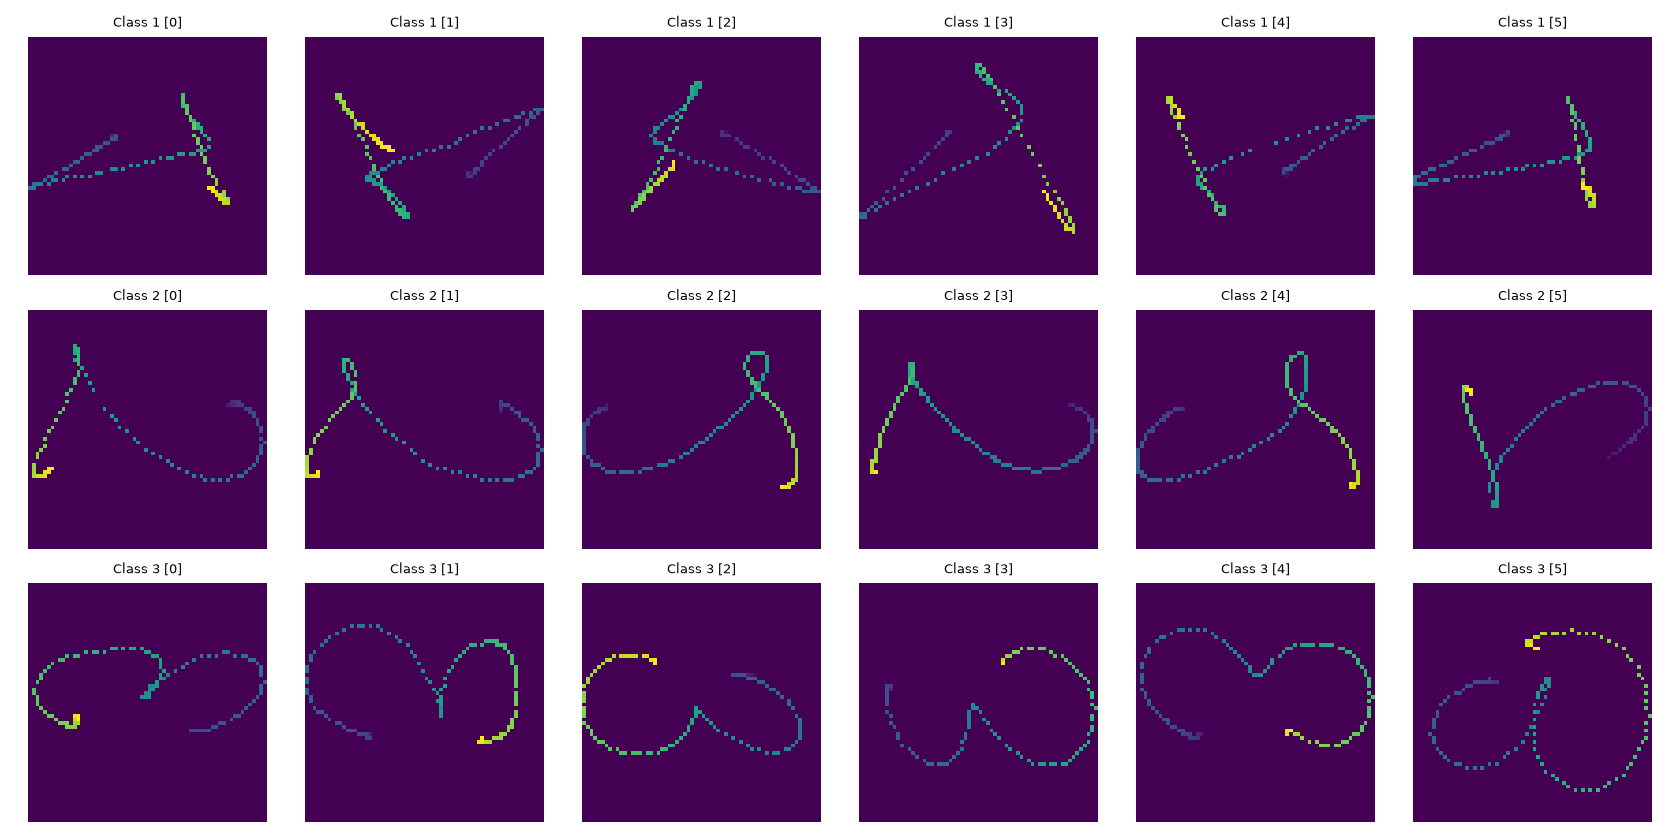
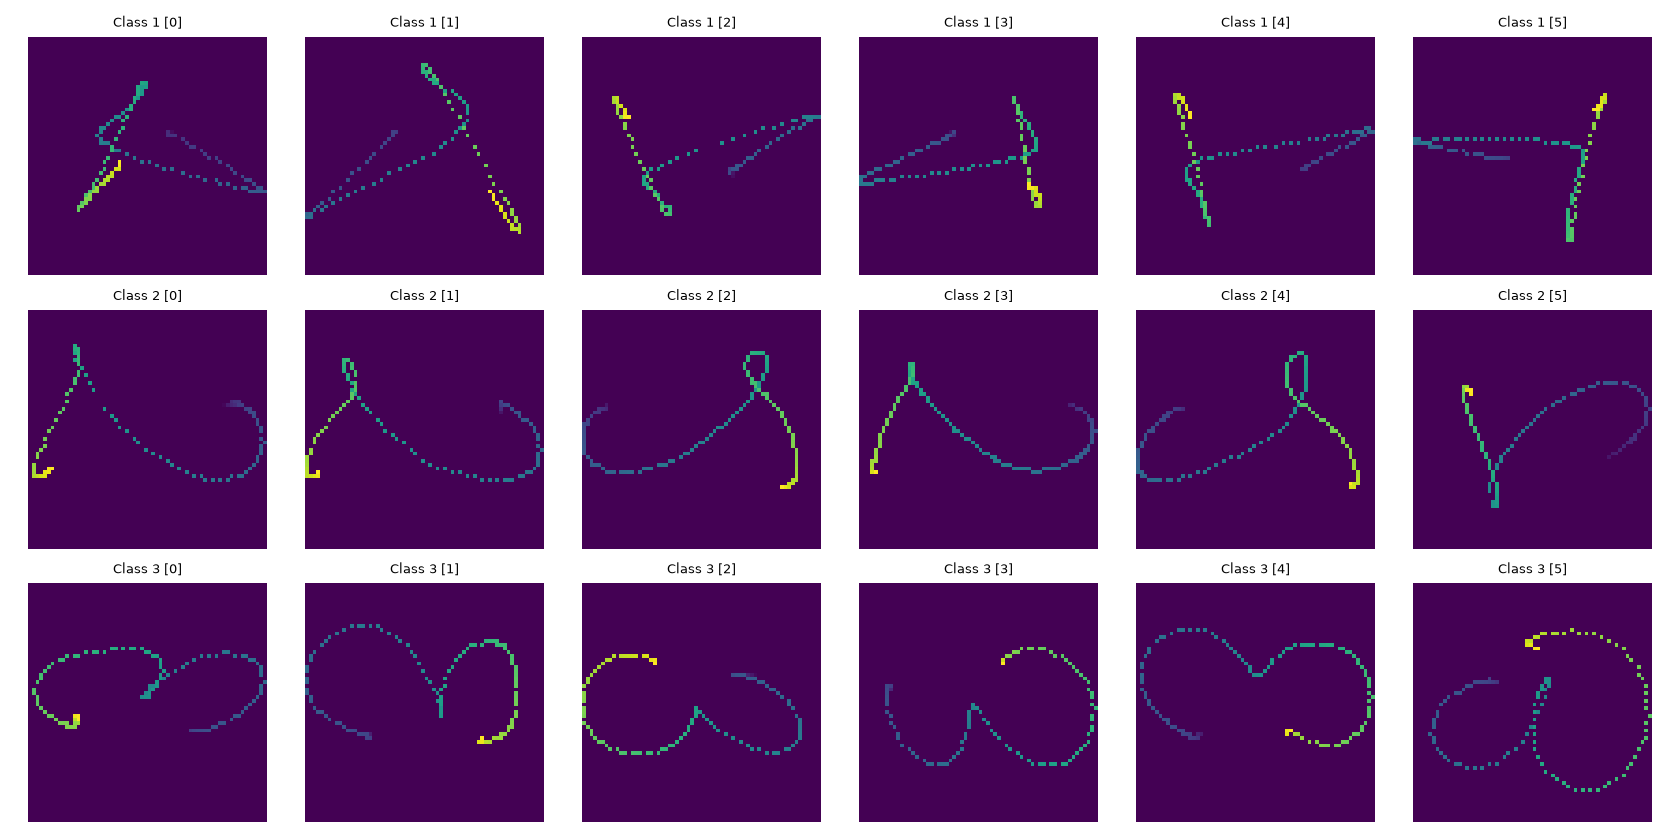
Add gesture classification toggle to pygame viewer
Add ability to toggle gesture classification on/off using the G key. Updates the UI to display classification status and refactors the gesture display section.

diff --git a/src/visualization/pygame_viewer.py b/src/visualization/pygame_viewer.py
@@ -14,6 +14,7 @@ Renders three projections side by side:
     • Fonts are instantiated once at startup.
 
 Runtime gesture classification keybindings:
+    G       toggle classification on / off
     W / S   window size  ± 15 frames
     E / Q   step size    ±  5 frames
     Z / X   debounce     ±  1 vote
@@ -118,6 +119,7 @@ class PygameViewer:
         self._recorder = TrackerRecorder()
 
         # Gesture classification
+        self._classification_enabled: bool = True
         self._classifier: RealtimeGestureClassifier | None = None
         self._current_gesture: int | None = None
         self._gesture_history: deque[tuple[str, int]] = deque(maxlen=10)
@@ -158,7 +160,7 @@ class PygameViewer:
         self._recorder.sample(self._render_states)
 
         # Feed the first actively-tracked source into the gesture classifier
-        if self._classifier is not None:
+        if self._classifier is not None and self._classification_enabled:
             for rs in self._render_states:
                 if rs.data.get("tracking"):
                     confirmed = self._classifier.add_sample(
@@ -314,6 +316,11 @@ class PygameViewer:
                     self._recorder.toggle_recording(self._render_states)
 
                 # ── classifier config ──────────────────────────────────────
+                elif event.key == pygame.K_g and self._classifier:
+                    self._classification_enabled = not self._classification_enabled
+                    state = "enabled" if self._classification_enabled else "disabled"
+                    print(f"Classification {state}")
+
                 elif event.key == pygame.K_w and self._classifier:
                     self._classifier.resize_window(self._classifier.window_size + 15)
                     print(f"Window size → {self._classifier.window_size}")
@@ -451,7 +458,6 @@ class PygameViewer:
             self._draw_card_background(cfg_x, y, cfg_w, cfg_h)
             if self._classifier is None:
                 self._blit_row("Classifier", "No model", cfg_x + 14, y + 12, cfg_w - 28, val_color=Theme.TEXT_DIM)
-                self._blit_row("Status", "Disabled", cfg_x + 14, y + 40, cfg_w - 28, val_color=Theme.TEXT_DIM)
             else:
                 self._blit_row(
                     "Window  [W/S]",
@@ -473,18 +479,21 @@ class PygameViewer:
             self._draw_card_background(gest_x, y, gest_w, gest_h)
             if self._classifier is None:
                 self._blit_row("Gesture", "No model", gest_x + 14, y + 12, gest_w - 28, val_color=Theme.TEXT_DIM)
-                self._blit_row("Status", "Disabled", gest_x + 14, y + 40, gest_w - 28, val_color=Theme.TEXT_DIM)
             else:
+                cl_txt   = "On  [G]" if self._classification_enabled else "Off [G]"
+                cl_color = Theme.GREEN_CONN if self._classification_enabled else (230, 40, 40)
+                self._blit_row("Classify", cl_txt, gest_x + 14, y + 12, gest_w - 28, val_color=cl_color)
+
                 if self._current_gesture is not None:
                     g_color = _GESTURE_COLORS.get(self._current_gesture, Theme.TEXT)
                     g_name  = _GESTURE_NAMES.get(self._current_gesture, f"Gesture {self._current_gesture}")
-                    self._blit_row("Current", g_name, gest_x + 14, y + 22, gest_w - 28, val_color=g_color)
+                    self._blit_row("Current", g_name, gest_x + 14, y + 38, gest_w - 28, val_color=g_color)
                 else:
-                    self._blit_row("Current", "—", gest_x + 14, y + 22, gest_w - 28, val_color=Theme.TEXT_DIM)
+                    self._blit_row("Current", "—", gest_x + 14, y + 38, gest_w - 28, val_color=Theme.TEXT_DIM)
 
                 raw = self._classifier.raw_label
                 raw_str = _GESTURE_NAMES.get(raw, "—") if raw is not None else "—"
-                self._blit_row("Raw", raw_str, gest_x + 14, y + 55, gest_w - 28, val_color=Theme.TEXT_DIM)
+                self._blit_row("Raw", raw_str, gest_x + 14, y + 64, gest_w - 28, val_color=Theme.TEXT_DIM)
             y += max(cfg_h, gest_h) + 10
 
             # ── SECTION 5: GESTURE HISTORY ───────────────────────────────────

diff --git a/ml/__init__.py b/ml/__init__.py
@@ -9,7 +9,7 @@ def _load_preview():
 
 
 def train_knn(*args, **kwargs):
-    from .trainer_knn import train
+    from .trainer_knn_validation import train
     return train(*args, **kwargs)
 
 

diff --git a/ml/dataset_augmented.py b/ml/dataset_augmented.py
@@ -59,7 +59,7 @@ def create_augmented_dataset(
     np.savez(output_path, X=X_augmented, y=y_augmented)
 
     print(f"\nAugmented dataset saved successfully to: {output_path}!")
-    print(f"-> Total samples: {X_augmented.shape[0]} (60 originals x 4 flips)")
+    print(f"-> Total samples: {X_augmented.shape[0]}")
     print(f"-> Class distribution: {dict(zip(*np.unique(y_augmented, return_counts=True)))}")
 
 if __name__ == "__main__":